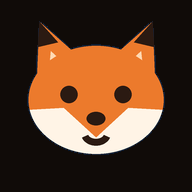
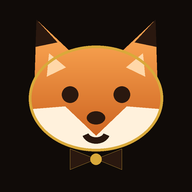
Luxe fox: gradient fur, gold trim, bow tie, gold cup, sparkles
Claude-Session: https://claude.ai/code/session_01ShVZ6ivao5KDLxeEQPFWWA

Changed region(s): [[0.125, 0.0938, 0.875, 0.9062], [0.4688, 0.5625, 0.5312, 0.5938], [0.5938, 0.5938, 0.625, 0.625]]

diff --git a/index.html b/index.html
@@ -411,6 +411,19 @@ svg{display:block}
 .btn{border-radius:12px;letter-spacing:.12em;font-size:13.5px}
 .card,.next,.unit-h{box-shadow:0 1px 0 rgba(200,160,70,.18)}
 .mascot{filter:drop-shadow(0 6px 10px rgba(0,0,0,.18))}
+.fa-dark{fill:#2A180F}
+.fa-eye{fill:#2A180F}
+.fa-ln,.fa-mo{fill:none;stroke:#2A180F;stroke-width:2.1;stroke-linecap:round;stroke-linejoin:round}
+.fa-open{fill:#2A180F}
+.fa-blush{fill:#E5707A;opacity:.4}
+.fa-tear{fill:#6FB6FF}
+.fa-spark{fill:#F3D27A}
+.m-idle .fa-spark,.m-cheer .fa-spark{transform-box:fill-box;transform-origin:center;animation:twinkle 2.6s ease-in-out infinite}
+.m-idle .sp2,.m-cheer .sp2{animation-delay:1.2s}
+@keyframes twinkle{0%,100%{opacity:.25;transform:scale(.6)}50%{opacity:1;transform:scale(1.1)}}
+.m-idle .fa-tail,.m-cheer .fa-tail{transform-box:fill-box;transform-origin:100% 100%;animation:wag 2.2s ease-in-out infinite}
+.m-sad .fa-tail{transform-box:fill-box;transform-origin:100% 100%;transform:rotate(-12deg)}
+.m-idle .fa-eye{transform-box:fill-box;transform-origin:center;animation:blink 4.2s infinite}
 </style><style>*,*::before,*::after{box-sizing:border-box}html{-webkit-text-size-adjust:100%}body{margin:0;background:var(--bg);color:var(--ink);font-family:var(--body)}</style>
 </head>
 <body>
@@ -1174,21 +1187,33 @@ function pumpToast(){
 
 /* ---------- mascot ---------- */
 function mascot(mood,px){
+  const E=(x)=>'<path class="fa-eye" d="M'+(x-4)+' 30.5q4-4 8 0q-4 3.4-8 0z"/><circle cx="'+(x+1)+'" cy="29.7" r=".9" fill="#fff"/>';
   const faces={
-    idle:'<circle class="eye" cx="23" cy="30" r="2.8"/><circle class="eye" cx="41" cy="30" r="2.8"/><path class="mo" d="M28.2 42.4q3.8 3.2 7.6 0"/>',
-    happy:'<path class="ln" d="M19 31q4-5 8 0M37 31q4-5 8 0"/><path class="mo" d="M27.5 41.8q4.5 5 9 0"/>',
-    cheer:'<path class="ln" d="M19 31q4-5 8 0M37 31q4-5 8 0"/><path class="open" d="M27.5 41.5h9q0 7.5-4.5 7.5t-4.5-7.5z"/><circle class="blush" cx="14" cy="37" r="3.2"/><circle class="blush" cx="50" cy="37" r="3.2"/>',
-    sad:'<path class="ln" d="M19 32q4 3.5 8 0M37 32q4 3.5 8 0"/><path class="mo" d="M28 45q4-4 8 0"/><path class="tear" d="M46.5 35q2.4 3 0 5.4q-2.4-2.4 0-5.4z"/>'
+    idle:E(22.5)+E(41.5)+'<path class="fa-mo" d="M29 43.6q3 2.6 6 0"/>',
+    happy:'<path class="fa-ln" d="M18 31q4.5-5 9 0M37 31q4.5-5 9 0"/><path class="fa-mo" d="M28.2 43q3.8 4 7.6 0"/>',
+    cheer:'<path class="fa-ln" d="M18 31q4.5-5 9 0M37 31q4.5-5 9 0"/><path class="fa-open" d="M28 42.8h8q0 6-4 6t-4-6z"/><circle class="fa-blush" cx="14" cy="37" r="3"/><circle class="fa-blush" cx="50" cy="37" r="3"/>',
+    sad:'<path class="fa-ln" d="M18 32q4.5 3.5 9 0M37 32q4.5 3.5 9 0"/><path class="fa-mo" d="M28.6 46q3.4-3.6 6.8 0"/><path class="fa-tear" d="M47 35q2.2 2.8 0 5q-2.2-2.2 0-5z"/>'
   };
-  const steam=(mood==='idle'||mood==='cheer')?'<path class="steam s1" d="M45 47q-3-3 0-6"/><path class="steam s2" d="M50 47q-3-3 0-6"/>':'';
+  const lux=(mood==='idle'||mood==='cheer');
+  const steam=lux?'<path class="steam s1" d="M50.5 46q-2.6-2.6 0-5.4"/><path class="steam s2" d="M54.5 46q-2.6-2.6 0-5.4"/>':'';
+  const spark=lux?'<path class="fa-spark" d="M55 4l1.2 3.1 3.1 1.2-3.1 1.2L55 12.6l-1.2-3.1-3.1-1.2 3.1-1.2z"/><path class="fa-spark sp2" d="M7 8l.8 2 2 .8-2 .8L7 13.6l-.8-2-2-.8 2-.8z"/>':'';
   return '<svg class="mascot m-'+mood+'" viewBox="0 0 64 60" width="'+px+'" height="'+Math.round(px*60/64)+'" aria-hidden="true">'
-    +'<path class="tail" d="M20 52Q4 52 6 36"/><path class="ttip" d="M5.6 42.5Q5.2 39 6.4 36.5"/>'
-    +'<path class="ear" d="M10 28L11 3l17 15z"/><path class="ear" d="M54 28L53 3L36 18z"/><path class="etip" d="M11 3l-.5 9.5 7.5-1.8z"/><path class="etip" d="M53 3l.5 9.5-7.5-1.8z"/><path class="earin" d="M14.5 22l.8-8 6 5.5z"/><path class="earin" d="M49.5 22l-.8-8-6 5.5z"/>'
-    +'<ellipse class="body" cx="32" cy="52" rx="14" ry="9"/><ellipse class="muzzle" cx="32" cy="53" rx="8" ry="6.5"/>'
-    +'<defs><clipPath id="fxh"><ellipse cx="32" cy="32" rx="23" ry="17.5"/></clipPath></defs>'
-    +'<ellipse class="body" cx="32" cy="32" rx="23" ry="17.5"/><path class="muzzle" clip-path="url(#fxh)" d="M5 36Q20 35 32 45Q44 35 59 36V52H5z"/>'
-    +steam+'<path class="cup" d="M40 47h14v3a7 7 0 0 1-7 7h0a7 7 0 0 1-7-7z"/><path class="cuph" d="M54 49h1.5a3 3 0 0 1 0 6H53"/><ellipse class="cupc" cx="47" cy="47" rx="7" ry="1.6"/>'
-    +'<ellipse class="nose" cx="32" cy="38.4" rx="3" ry="2.1"/>'
+    +'<defs><linearGradient id="fxg" x1="0" y1="0" x2="0" y2="1"><stop offset="0" stop-color="#F7A04E"/><stop offset="1" stop-color="#C75B1A"/></linearGradient>'
+    +'<linearGradient id="fxk" x1="0" y1="0" x2="1" y2="1"><stop offset="0" stop-color="#FBE6A0"/><stop offset=".55" stop-color="#D9A93A"/><stop offset="1" stop-color="#A97C1E"/></linearGradient>'
+    +'<clipPath id="fxh"><path d="M7 26Q32 7 57 26Q55 40 41 47Q32 53 23 47Q9 40 7 26z"/></clipPath></defs>'
+    +spark
+    +'<path class="fa-tail" d="M19 57Q2 56 5 38" fill="none" stroke="url(#fxg)" stroke-width="10" stroke-linecap="round"/><path class="fa-tail" d="M5.1 42Q4.8 40.2 5.3 38.6" fill="none" stroke="#FFF1DC" stroke-width="9" stroke-linecap="round"/>'
+    +'<path d="M9 31L10 1.5l17 16.5z" fill="url(#fxg)"/><path d="M55 31L54 1.5L37 18z" fill="url(#fxg)"/>'
+    +'<path class="fa-dark" d="M10 1.5l-.4 10.5 7.6-1.6z"/><path class="fa-dark" d="M54 1.5l.4 10.5-7.6-1.6z"/>'
+    +'<path d="M13.6 23l.7-9.5 6.6 5.4z" fill="#FFD7A8"/><path d="M50.4 23l-.7-9.5-6.6 5.4z" fill="#FFD7A8"/>'
+    +'<path d="M16 60Q17 51 32 51Q47 51 48 60z" fill="url(#fxg)"/><path d="M26 60Q27 54 32 54Q37 54 38 60z" fill="#FFF1DC"/>'
+    +'<path d="M7 26Q32 7 57 26Q55 40 41 47Q32 53 23 47Q9 40 7 26z" fill="url(#fxg)"/>'
+    +'<path clip-path="url(#fxh)" fill="#FFF1DC" d="M4 35Q19 33 32 45Q45 33 60 35V56H4z"/>'
+    +'<path d="M7 26Q32 7 57 26Q55 40 41 47Q32 53 23 47Q9 40 7 26z" fill="none" stroke="url(#fxk)" stroke-width=".9" opacity=".85"/>'
+    +'<path class="fa-dark" d="M32 51.6l-8.4-3.4v7.2zM32 51.6l8.4-3.4v7.2z"/><path d="M32 51.6l-8.4-3.4v7.2zM32 51.6l8.4-3.4v7.2z" fill="none" stroke="url(#fxk)" stroke-width=".8"/><circle cx="32" cy="51.8" r="2.1" fill="url(#fxk)"/>'
+    +steam
+    +'<path d="M43 47h14v3.4a7 7 0 0 1-7 7h0a7 7 0 0 1-7-7z" fill="url(#fxk)"/><path d="M57 49h1.6a3 3 0 0 1 0 6H56" fill="none" stroke="url(#fxk)" stroke-width="2.1" stroke-linecap="round"/><ellipse cx="50" cy="47" rx="7" ry="1.6" fill="#3A2216" stroke="#FBE6A0" stroke-width=".8"/>'
+    +'<path class="fa-dark" d="M29.4 39.4h5.2L32 42.2z"/>'
     +(faces[mood]||'')+'</svg>';
 }
 
